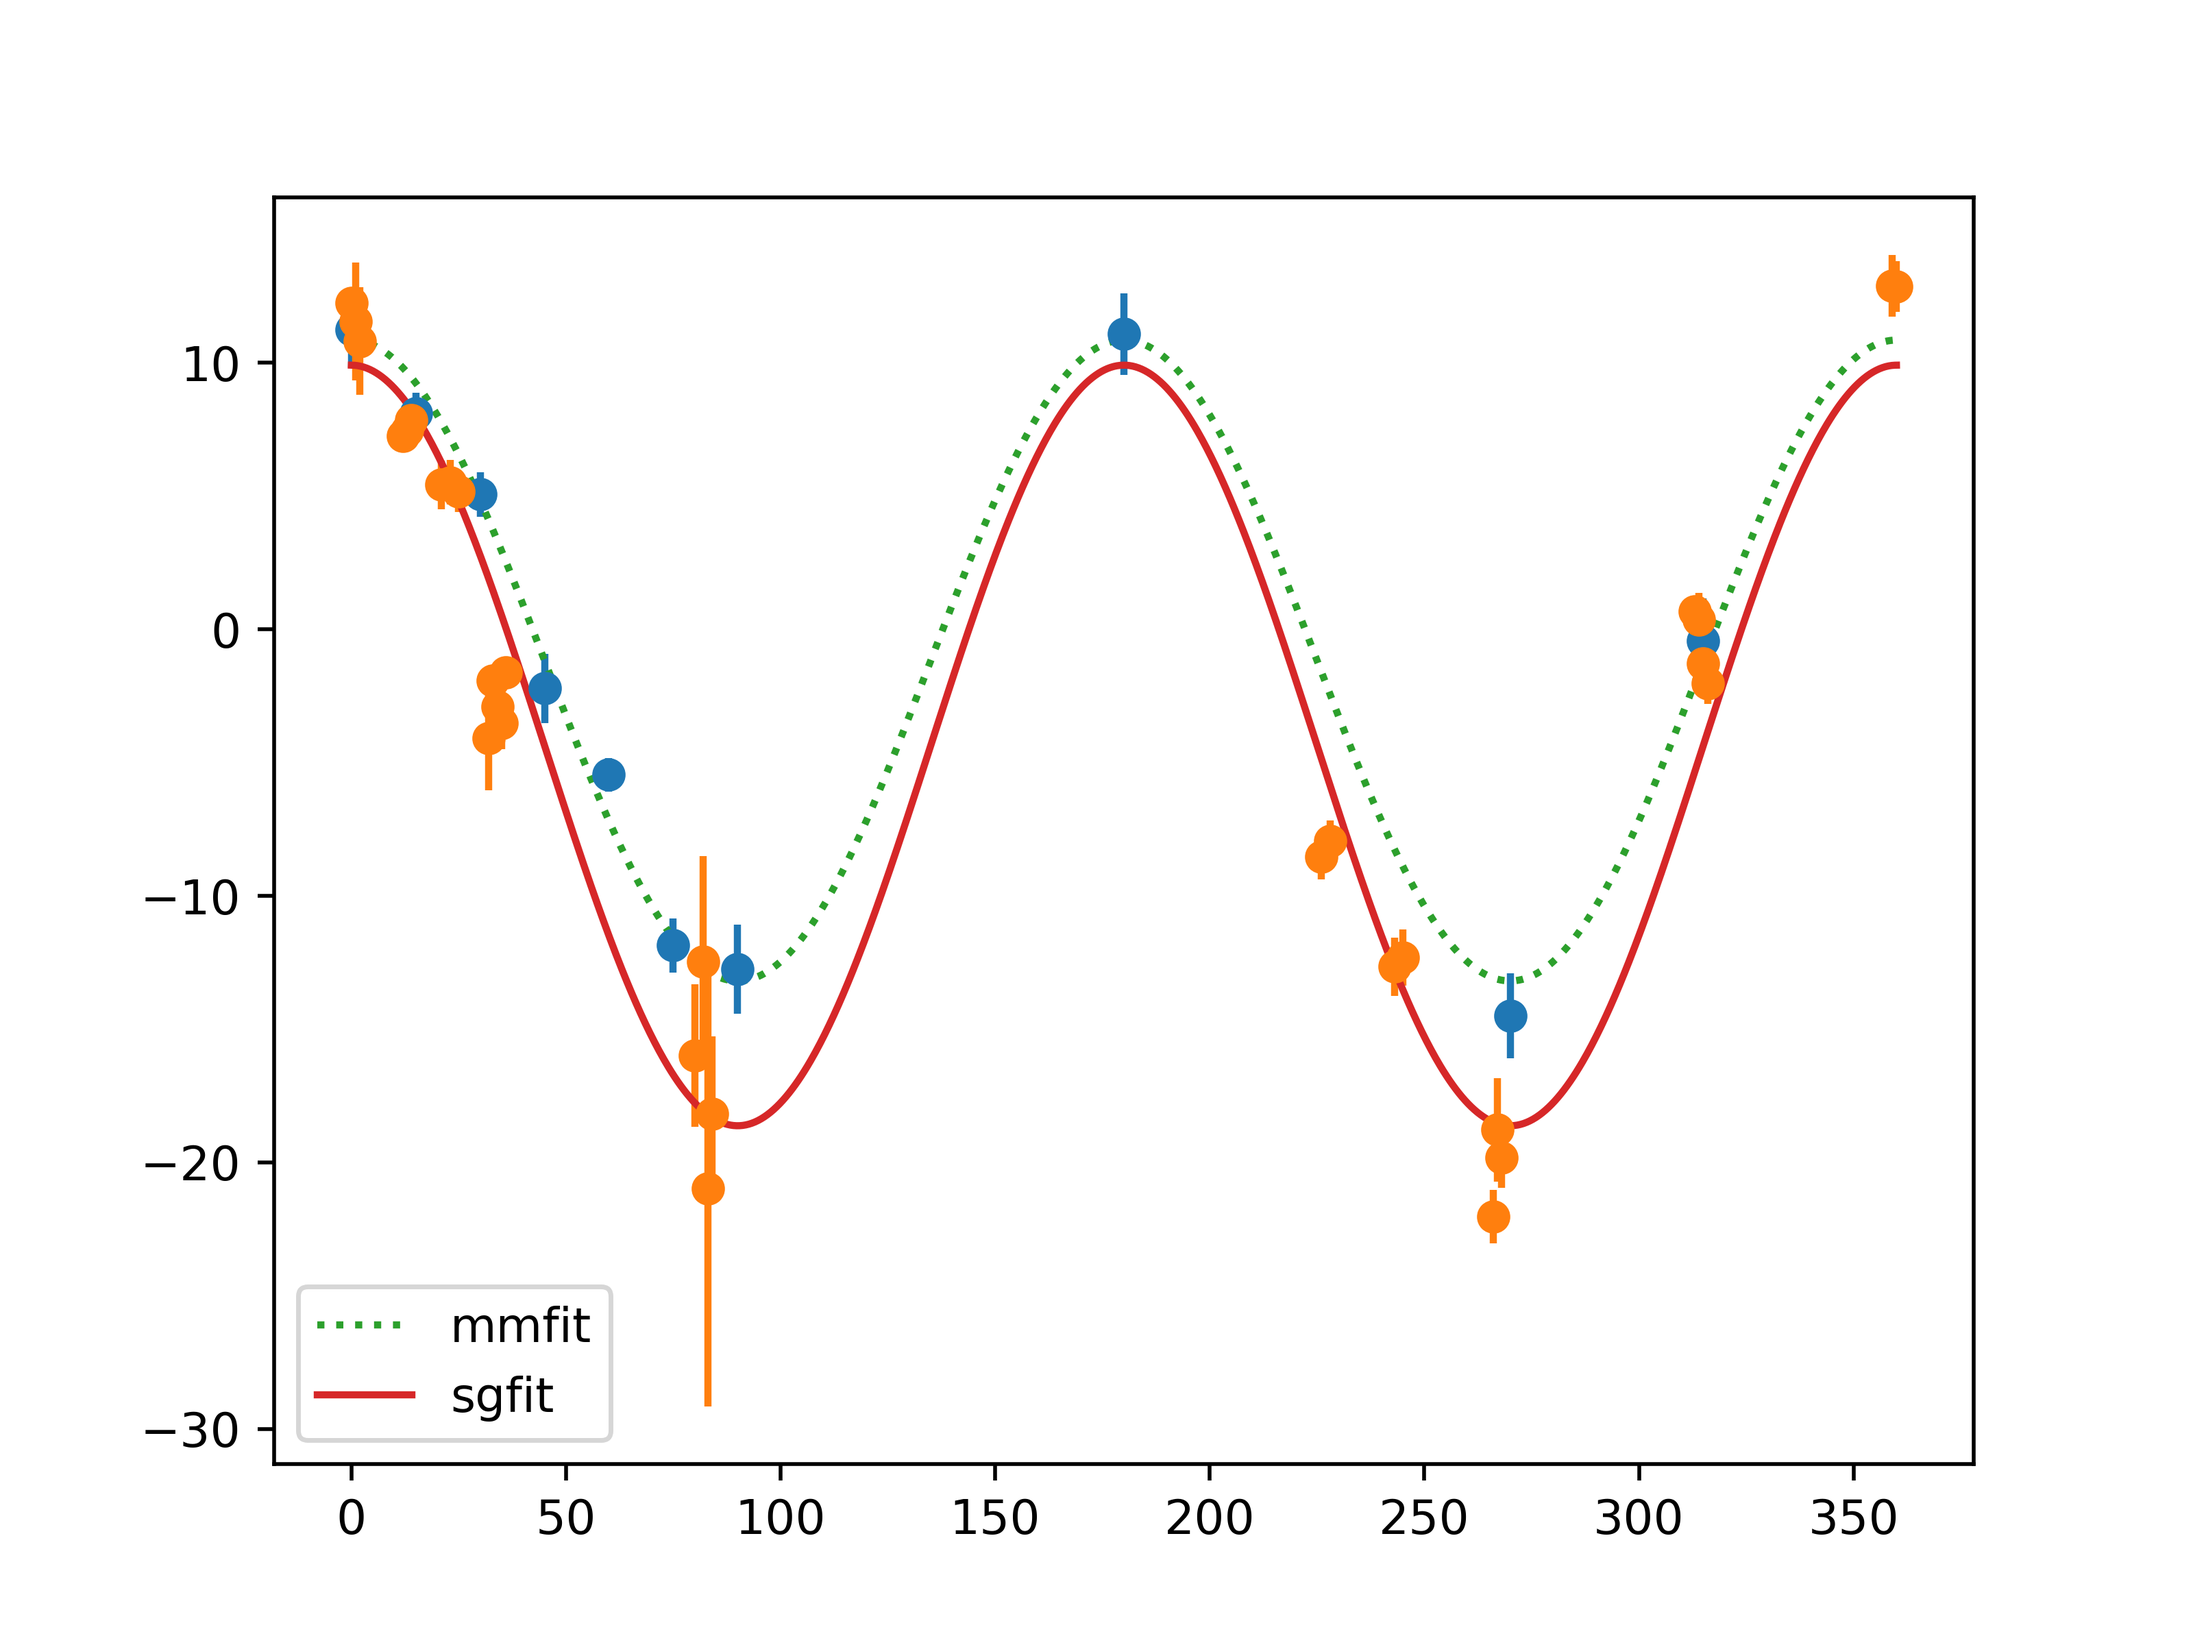
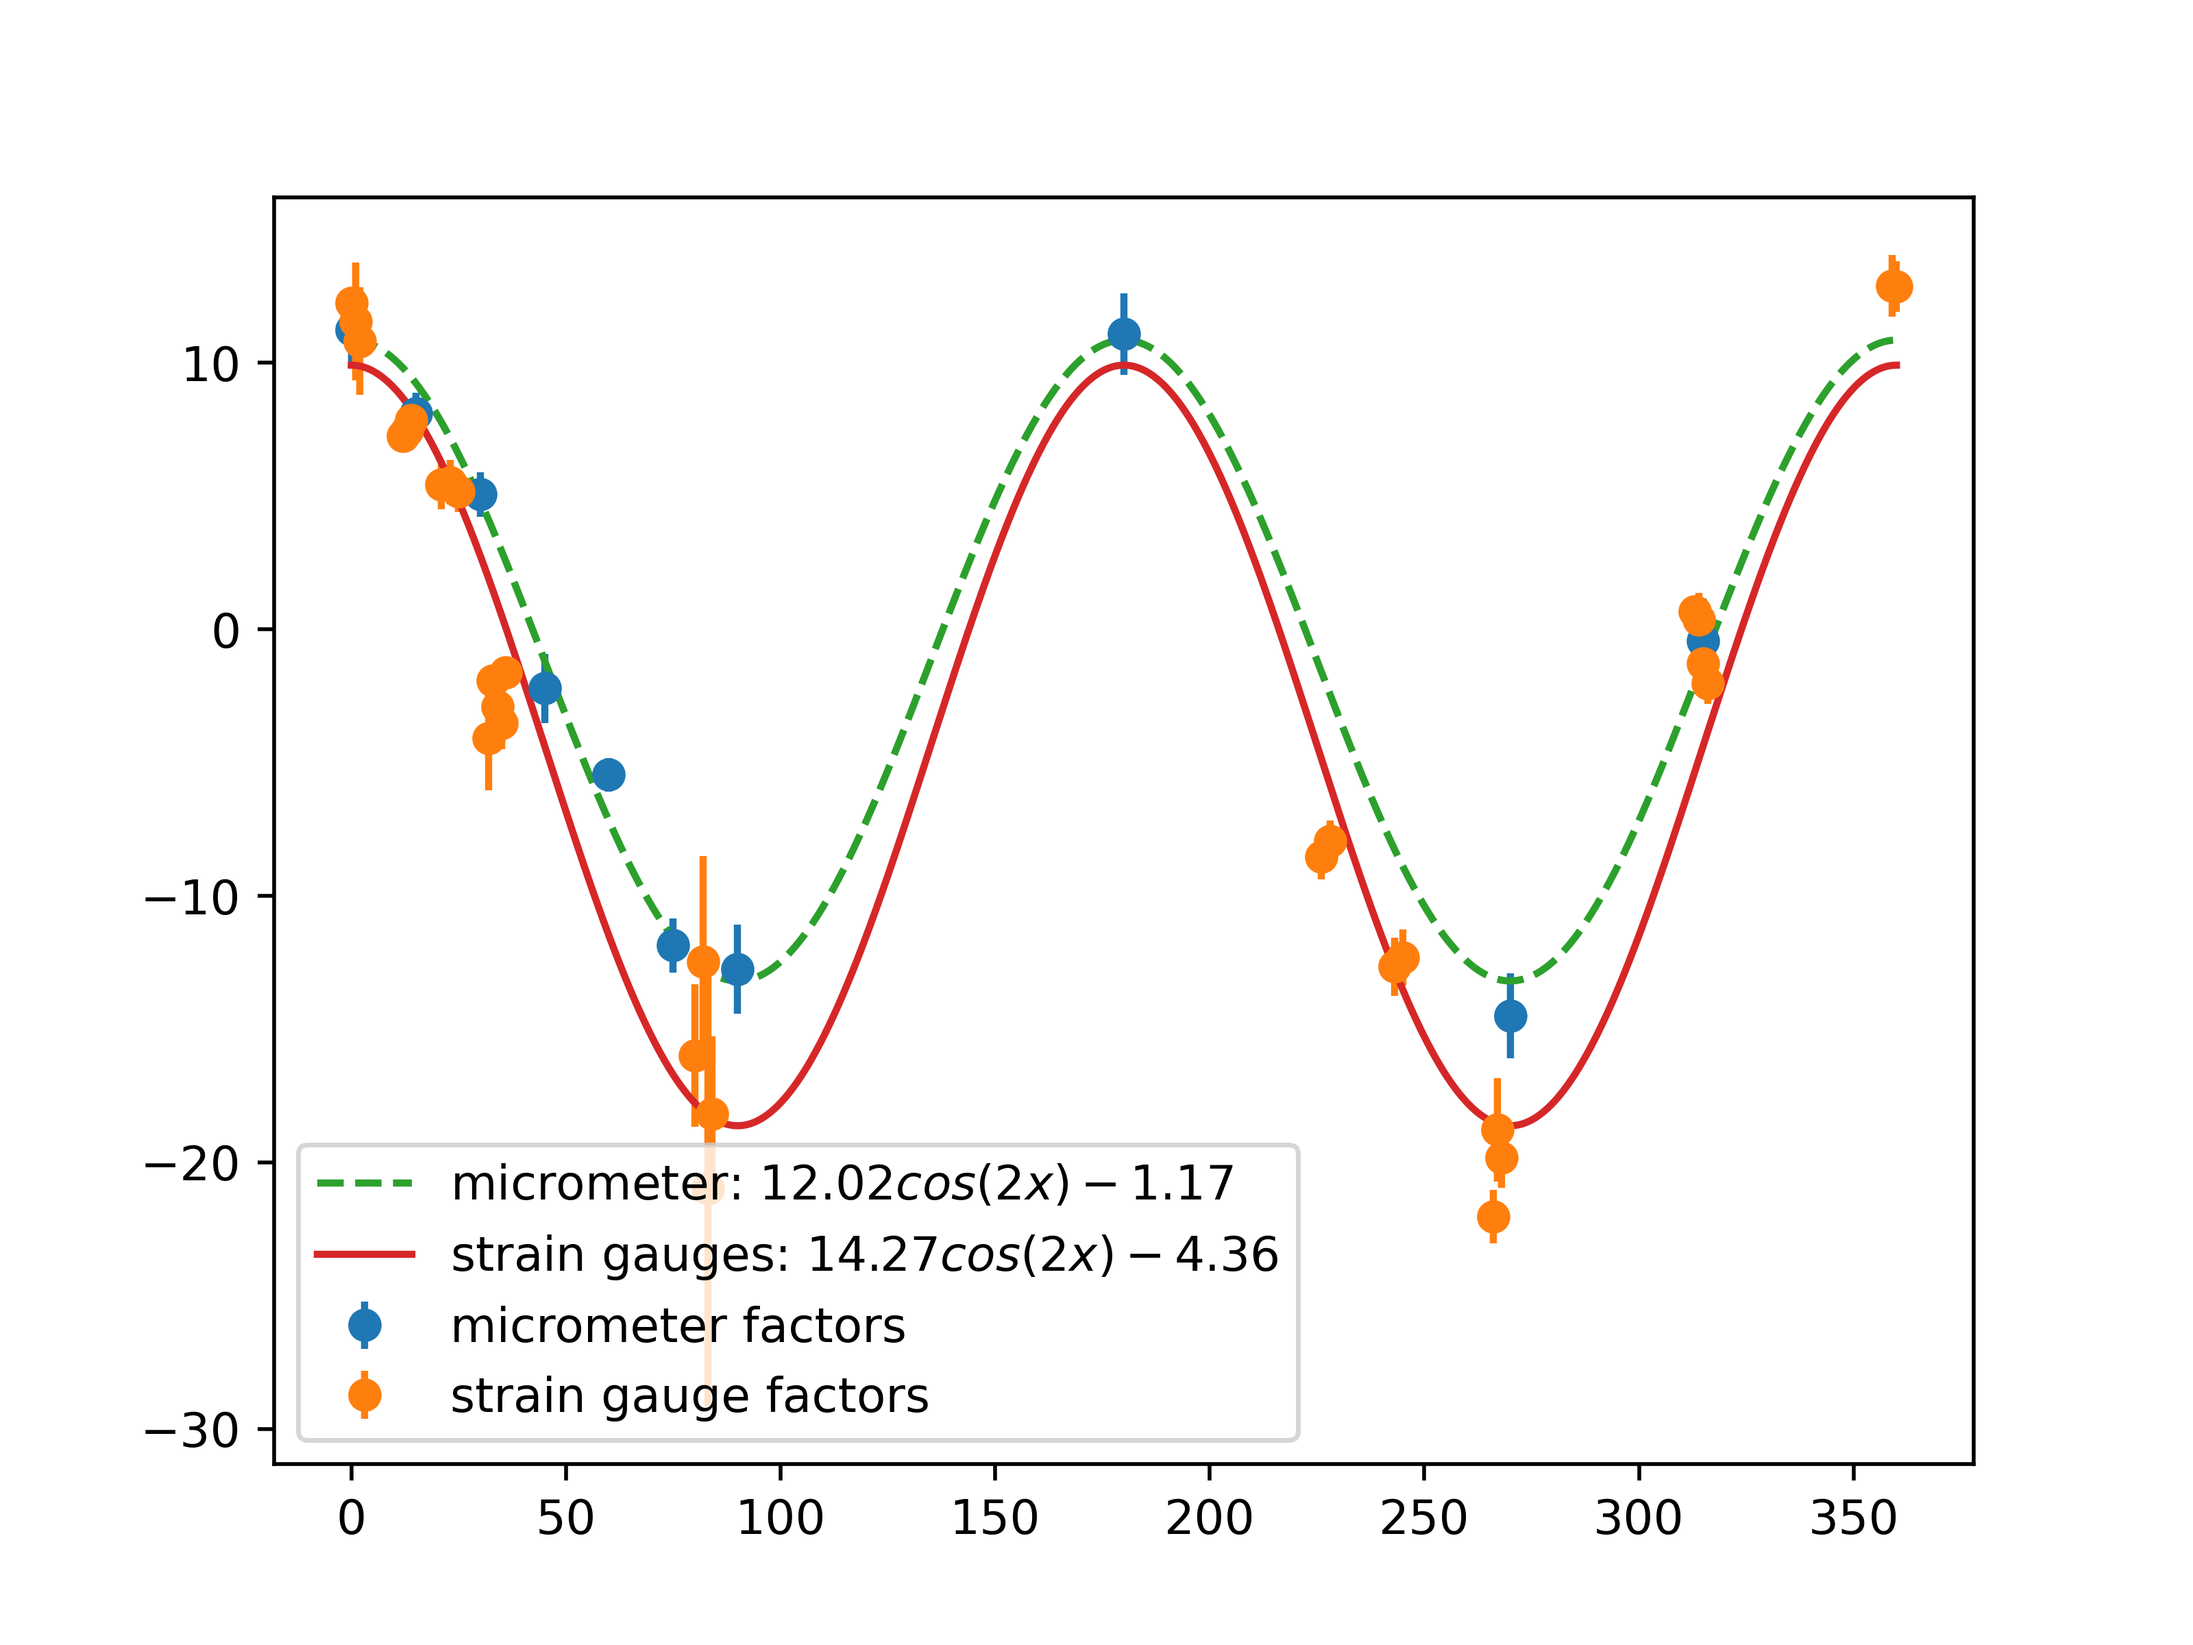
add functions of fit

Changed region(s): [[0.125, 0.6875, 0.5938, 0.875], [0.5312, 0.75, 0.5938, 0.7812]]

diff --git a/VCO_diode_stretch/angleguage.py b/VCO_diode_stretch/angleguage.py
@@ -127,11 +127,11 @@ def micrometer():
         finalang.append(lab)
 
 
-    plt.errorbar(finalang, finalavg, finalerr, fmt="o")
+    plt.errorbar(finalang, finalavg, finalerr, fmt="o", label= "micrometer factors")
     res = fit_sin(finalang, finalavg)
     print(res)
 
-    return res["fitfunc"]
+    return res
 
 
 def strainGauge():
@@ -172,12 +172,12 @@ def strainGauge():
         finalerr.append(df["gaugefactors"].std())
         finalang.append(lab)
 
-    plt.errorbar(finalang, finalavg, finalerr, fmt="o")
+    plt.errorbar(finalang, finalavg, finalerr, fmt="o", label = "strain gauge factors")
 
     res = fit_sin(finalang, finalavg)
     print(res)
 
-    return res["fitfunc"]
+    return res
 
 
 if __name__ == "__main__":
@@ -190,8 +190,8 @@ if __name__ == "__main__":
 
     xs = np.linspace(0,np.deg2rad(360),1000)
 
-    plt.plot(np.rad2deg(xs), mmfit(xs), linestyle="dotted", label = "mmfit")
-    plt.plot(np.rad2deg(xs), sgfit(xs), label = "sgfit")
+    plt.plot(np.rad2deg(xs), mmfit["fitfunc"](xs), linestyle="dashed", label = f"micrometer: ${mmfit['amp']:.2f}cos(2x){'+' if mmfit['offset'] >= 0 else ''}{mmfit['offset']:.2f}$")
+    plt.plot(np.rad2deg(xs), sgfit["fitfunc"](xs), label = f"strain gauges: ${sgfit['amp']:.2f}cos(2x){'+' if sgfit['offset'] >= 0 else ''}{sgfit['offset']:.2f}$")
 
     plt.legend()
     plt.savefig("VCO_diode_stretch/figures/angleswithgauges.png", dpi=500)
